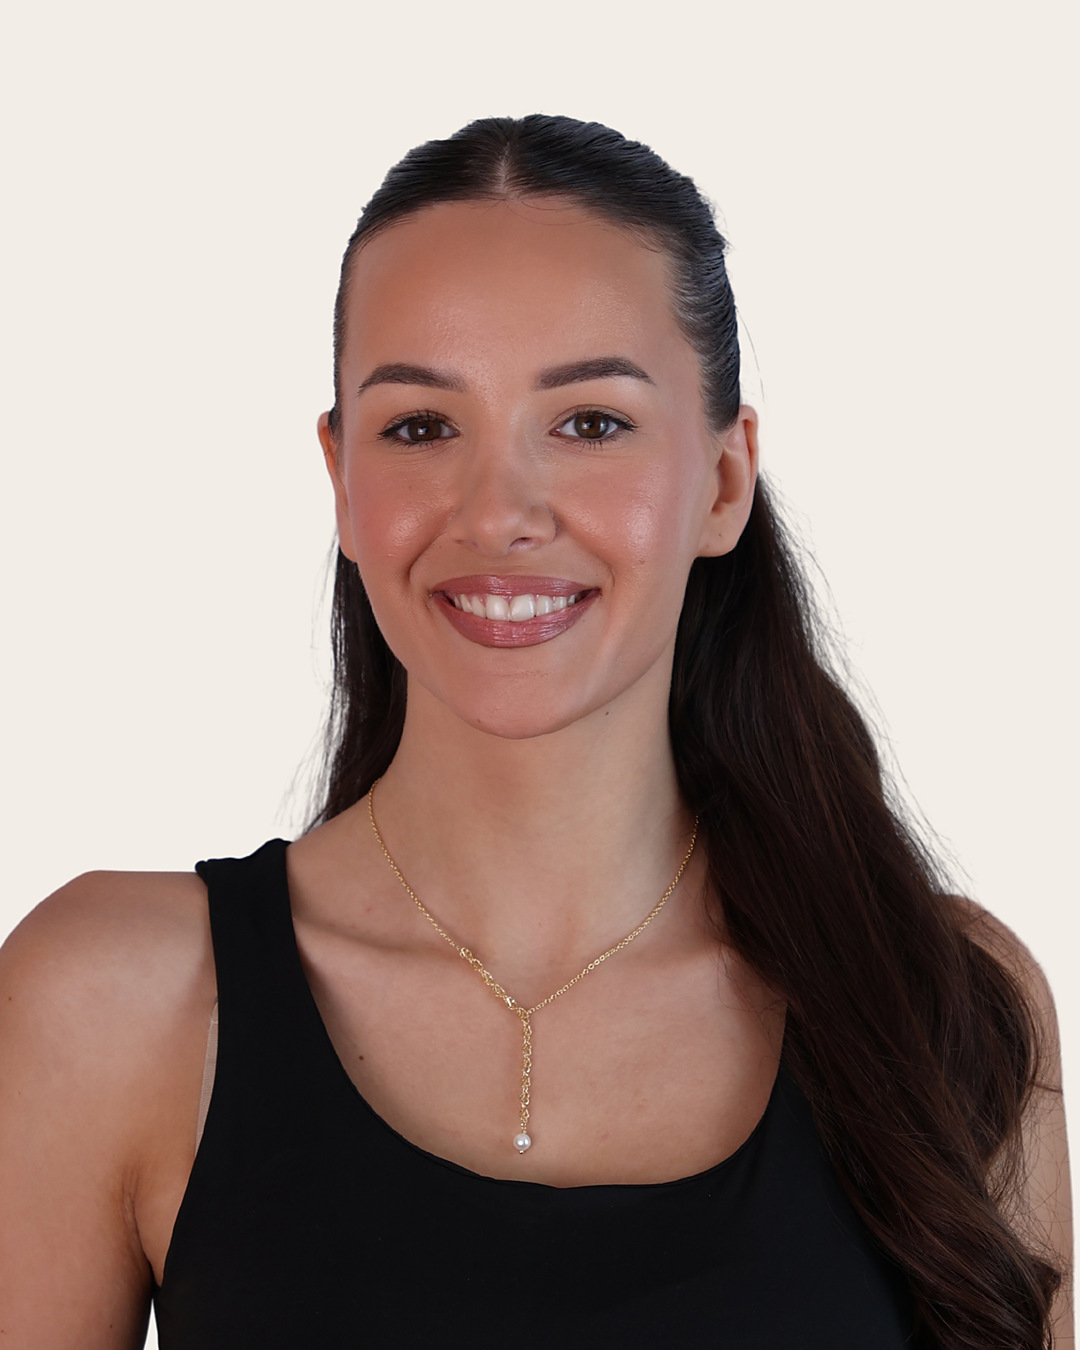
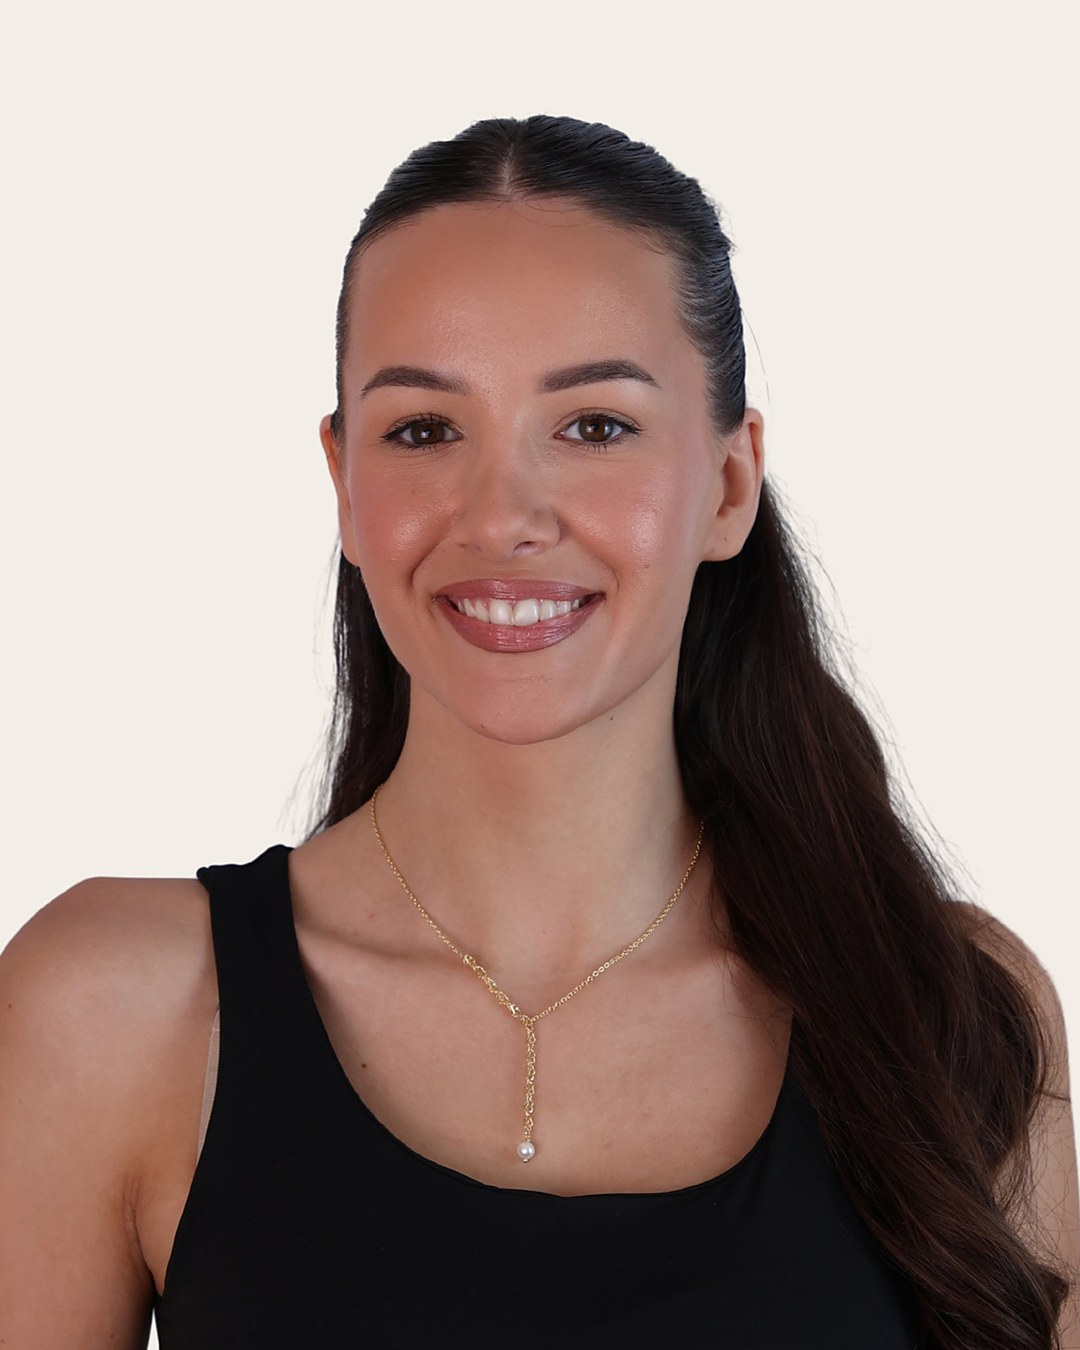
Izgled: „O meni” odmah iza naslovne, veća slika, cjenik skriven, usklađeno za sve ekrane
- „O meni” dolazi odmah nakon naslovne; slika popunjava cijelu širinu na mobitelu
  i veća je na tabletu i računalu (slika ponovno izrezana bez svijetle trake desno)
- sekcija s cjenikom skrivena (nova postavka „Cjenik na stranici”, isključena)
- kontakt: karta uz radno vrijeme, gumb „Upute do salona” ispod karte
- kalendar i iznosi bona stanu i na najuže mobitele (320 px)

Claude-Session: https://claude.ai/code/session_01Ac9kgiXt7yFycyhrKw6tHw

diff --git a/public/css/style.css b/public/css/style.css
@@ -115,14 +115,18 @@ section { padding: clamp(64px, 10vw, 112px) 0; }
 .price-row .book-link:hover { text-decoration: underline; }
 
 /* O meni */
-.about { display: grid; grid-template-columns: minmax(0, 340px) 1fr; gap: clamp(32px, 6vw, 72px); align-items: center; }
-.about .photo { aspect-ratio: 4 / 5; background: var(--cream); display: grid; place-items: center; overflow: hidden; }
+.about { display: grid; grid-template-columns: minmax(0, 5fr) minmax(0, 6fr); gap: clamp(32px, 6vw, 80px); align-items: center; }
+.about .photo { aspect-ratio: 4 / 5; width: 100%; background: var(--cream); display: grid; place-items: center; overflow: hidden; }
 .about .photo img { width: 100%; height: 100%; object-fit: cover; }
 .edu { list-style: none; padding: 0; margin: 24px 0 0; }
 .edu li { padding: 12px 0; border-top: 1px solid var(--line); display: flex; justify-content: space-between; gap: 12px; flex-wrap: wrap; }
 .edu li span:first-child { font-family: var(--serif); font-size: 19px; }
 .edu li span:last-child { font-size: 13px; color: var(--muted); }
-@media (max-width: 760px) { .about { grid-template-columns: 1fr; } .about .photo { max-width: 320px; } }
+@media (max-width: 1000px) { .about { grid-template-columns: minmax(0, 1fr) minmax(0, 1fr); } }
+@media (max-width: 760px) {
+  .about { grid-template-columns: 1fr; gap: 36px; }
+  .edu li { flex-direction: column; gap: 0; }
+}
 
 /* Radovi */
 .gallery { display: grid; grid-template-columns: repeat(auto-fill, minmax(220px, 1fr)); gap: 12px; }
@@ -139,17 +143,17 @@ section { padding: clamp(64px, 10vw, 112px) 0; }
 /* Kontakt */
 .contact-grid {
   display: grid; grid-template-columns: 1fr 1fr; column-gap: clamp(32px, 6vw, 72px);
-  grid-template-areas: "head ." "list map" "hours route";
+  grid-template-areas: "head ." "list map" "hours map" "hours route";
 }
 .contact-head { grid-area: head; }
 .contact-hours { grid-area: hours; }
 .contact-hours h3 { margin-top: 32px; }
 .contact-grid .map-wrap { grid-area: map; }
-.route-btn { grid-area: route; justify-self: start; align-self: start; margin-top: 26px; }
+.route-btn { grid-area: route; justify-self: start; align-self: start; margin-top: 20px; }
 .contact-list { grid-area: list; list-style: none; margin: 0; padding: 0; }
 .contact-list li { display: flex; gap: 16px; align-items: center; padding: 14px 0; border-bottom: 1px solid rgba(243, 237, 231, .18); }
 .contact-list img { width: 28px; height: 28px; object-fit: contain; flex: none; }
-.contact-list a { text-decoration: none; }
+.contact-list a { text-decoration: none; overflow-wrap: anywhere; }
 .contact-list a:hover { color: var(--rose-light); }
 .hours { width: 100%; border-collapse: collapse; margin-top: 8px; }
 .hours td { padding: 6px 0; border-bottom: 1px solid rgba(243, 237, 231, .18); }
@@ -198,10 +202,10 @@ footer.site-footer a { color: var(--rose-light); }
 .cal-head h3 { margin: 0; font-size: 22px; text-transform: capitalize; }
 .cal-nav { width: 44px; height: 44px; border-radius: 50%; border: 1px solid var(--line); background: none; cursor: pointer; font-size: 18px; color: var(--ink); }
 .cal-nav:disabled { opacity: .3; cursor: default; }
-.cal-grid { display: grid; grid-template-columns: repeat(7, 1fr); gap: 4px; text-align: center; }
+.cal-grid { display: grid; grid-template-columns: repeat(7, minmax(0, 1fr)); gap: 4px; text-align: center; }
 .cal-grid .dow { font-size: 11px; letter-spacing: .12em; color: var(--muted); padding: 6px 0; text-transform: uppercase; }
 .cal-day {
-  aspect-ratio: 1; min-height: 40px; border-radius: 50%; border: 1px solid transparent;
+  aspect-ratio: 1; width: 100%; min-height: 36px; padding: 0; border-radius: 50%; border: 1px solid transparent;
   background: none; font: 400 15px var(--sans); color: var(--ink); cursor: pointer;
 }
 .cal-day:disabled { color: #C3B7AE; cursor: default; text-decoration: line-through; text-decoration-color: rgba(0,0,0,.1); }
@@ -265,7 +269,8 @@ footer.site-footer a { color: var(--rose-light); }
 [hidden] { display: none !important; }
 @media (max-width: 520px) {
   .steps { gap: 6px; }
-  .steps li { flex: 1; text-align: center; font-size: 10px; letter-spacing: .1em; }
+  .steps li { flex: 1; min-width: 0; text-align: center; font-size: 10px; letter-spacing: .1em; }
+  .cal-grid .dow { letter-spacing: .04em; }
 }
 .map-wrap { display: block; position: relative; }
 .map-wrap .map { pointer-events: none; display: block; }
@@ -292,9 +297,9 @@ section[id] { scroll-margin-top: 72px; }
 @media (max-width: 560px) { .grid-2 { grid-template-columns: 1fr; } }
 .field-label { display: block; font-size: 12px; letter-spacing: .16em; text-transform: uppercase; margin-bottom: 6px; color: var(--muted); }
 .amounts { display: flex; gap: 10px; flex-wrap: wrap; }
-.amount { position: relative; cursor: pointer; }
+.amount { position: relative; cursor: pointer; flex: 1 1 72px; min-width: 0; max-width: 160px; }
 .amount input { position: absolute; opacity: 0; inset: 0; margin: 0; cursor: pointer; }
-.amount span { display: inline-block; min-width: 96px; padding: 12px 18px; border: 1px solid var(--line); text-align: center; font-family: var(--serif); font-size: 20px; background: var(--white); }
+.amount span { display: block; padding: 12px 6px; white-space: nowrap; border: 1px solid var(--line); text-align: center; font-family: var(--serif); font-size: clamp(16px, 5vw, 20px); background: var(--white); }
 .amount input:checked + span { background: var(--ink); color: var(--cream); border-color: var(--ink); }
 .amount input:focus-visible + span { outline: 2px solid var(--rose); outline-offset: 2px; }
 .form-done { text-align: center; padding: 8px 0; }
@@ -337,4 +342,11 @@ section[id] { scroll-margin-top: 72px; }
   .voucher-page { background: none; padding: 0; }
   .voucher-actions, .voucher-state { display: none; }
   .voucher { border-color: #999; outline-color: #999; }
+}
+
+/* Mali ekrani: naslovna */
+@media (max-width: 520px) {
+  .hero .label { letter-spacing: .14em; }
+  .hero .actions { flex-direction: column; align-items: center; }
+  .hero .actions .btn { width: 100%; max-width: 300px; }
 }

diff --git a/public/index.html b/public/index.html
@@ -21,8 +21,8 @@
     <div class="wrap">
       <a class="logo" href="/" aria-label="Barbara Skoko Beauty – naslovna"><img src="/assets/logo/BSB_Horizontalni_logo_tamni.svg" alt="Barbara Skoko Beauty" width="126" height="40"></a>
       <nav class="nav" aria-label="Glavni izbornik">
-        <a href="#usluge">Usluge</a>
         <a href="#o-meni">O meni</a>
+        <a href="#usluge" data-feature-link="priceList" hidden>Usluge</a>
         <a href="#radovi" data-gallery-link hidden>Radovi</a>
         <a href="#poklon-bon" data-feature-link="vouchers" hidden>Poklon bon</a>
         <a href="#svecanosti" data-feature-link="events" hidden>Svečanosti</a>
@@ -41,12 +41,27 @@
         <p class="lead">Šminka za svaku priliku i precizno oblikovanje obrva – threading, henna i classic – u opuštenom i besprijekorno čistom prostoru.</p>
         <div class="actions">
           <a class="btn" href="#rezervacija">Rezervirajte termin</a>
-          <a class="btn btn-outline" href="#usluge">Pogledajte usluge</a>
+          <a class="btn btn-outline" href="#kontakt" id="hero-second">Kontakt i lokacija</a>
+        </div>
+      </div>
+    </section>
+    <section id="o-meni" class="bg-sand">
+      <div class="wrap about">
+        <div class="photo" id="about-photo"></div>
+        <div>
+          <span class="label">O meni</span>
+          <h2>Bok, ja sam <em>Barbara.</em></h2>
+          <p>Bavim se šminkanjem i oblikovanjem obrva. Moj cilj je istaknuti vašu prirodnu ljepotu – da iz svakog termina izađete samopouzdanije.</p>
+          <ul class="edu">
+            <li><span>Petra Braćić</span><span>Edukacija šminkanja</span></li>
+            <li><span>Mary Bošnjak</span><span>Edukacija šminkanja</span></li>
+            <li><span>Threading Bar</span><span>Edukacija oblikovanja obrva</span></li>
+          </ul>
         </div>
       </div>
     </section>
 
-    <section id="usluge" class="bg-cream">
+    <section id="usluge" data-alt hidden>
       <div class="wrap">
         <div class="section-head">
           <span class="label">Usluge</span>
@@ -113,23 +128,7 @@
       </div>
     </section>
 
-    <section id="o-meni" class="bg-sand">
-      <div class="wrap about">
-        <div class="photo" id="about-photo"></div>
-        <div>
-          <span class="label">O meni</span>
-          <h2>Bok, ja sam <em>Barbara.</em></h2>
-          <p>Bavim se šminkanjem i oblikovanjem obrva. Moj cilj je istaknuti vašu prirodnu ljepotu – da iz svakog termina izađete samopouzdanije.</p>
-          <ul class="edu">
-            <li><span>Petra Braćić</span><span>Edukacija šminkanja</span></li>
-            <li><span>Mary Bošnjak</span><span>Edukacija šminkanja</span></li>
-            <li><span>Threading Bar</span><span>Edukacija oblikovanja obrva</span></li>
-          </ul>
-        </div>
-      </div>
-    </section>
-
-    <section id="radovi" hidden>
+    <section id="radovi" data-alt hidden>
       <div class="wrap">
         <div class="section-head">
           <span class="label">Radovi</span>

diff --git a/public/admin/admin.js b/public/admin/admin.js
@@ -855,6 +855,7 @@ const FEATURES = [
   { k: 'rebook', t: 'Podsjetnik za novi termin', d: 'Nekoliko tjedana nakon obrva klijentica dobije email „Vrijeme je za nove obrve?” s linkom za rezervaciju.' },
   { k: 'reviews', t: 'Recenzije na stranici', d: 'Nakon termina klijentice ocijene uslugu, a ocjene koje odobrite prikazuju se na stranici.' },
   { k: 'vouchers', t: 'Poklon bonovi', d: 'Bon se naruči na stranici, kupac ga dobije emailom za ispis, a vi ga u salonu iskoristite po kodu.' },
+  { k: 'priceList', t: 'Cjenik na stranici', d: 'Posebna sekcija s cjenikom ispod „O meni”. Cijene se vide i u koraku rezervacije, pa je sekcija zasad skrivena.' },
   { k: 'events', t: 'Vjenčanja i svečanosti', d: 'Obrazac za upit na stranici (vjenčanje, krizma, matura); kaparu tražite i potvrđujete jednim dodirom.' },
 ];
 const CAT_LABEL = { BROWS: 'Obrve', FACE: 'Lice', MAKEUP: 'Šminka' };
@@ -1215,7 +1216,7 @@ async function viewSettings(v) {
 }
 
 // Zadana fotografija za „O meni” (dok Barbara ne doda svoju)
-const ABOUT_DEFAULT = '/assets/photos/barbara-o-meni.jpg';
+const ABOUT_DEFAULT = '/assets/photos/barbara-o-meni.jpg?v=2';
 
 // Smanji fotografiju u pregledniku (najviše 1600 px) prije slanja
 function shrinkImage(file) {

diff --git a/public/js/booking.js b/public/js/booking.js
@@ -376,7 +376,7 @@ function renderContact() {
 }
 
 // Zadana fotografija za „O meni”; postavlja se tek kad se zna je li Barbara dodala svoju (da se ne učitaju obje)
-const ABOUT_DEFAULT = '/assets/photos/barbara-o-meni.jpg';
+const ABOUT_DEFAULT = '/assets/photos/barbara-o-meni.jpg?v=2';
 function showAboutPhoto(src) {
   $('#about-photo').innerHTML = `<img src="${esc(src)}" alt="Barbara Skoko" width="1080" height="1350">`;
 }
@@ -529,6 +529,11 @@ function renderEvents() {
   }
   const datum = params.get('datum');
   renderPriceList();
+  if (state.config.features?.priceList) {
+    $('#usluge').hidden = false;
+    $('[data-feature-link="priceList"]').hidden = false;
+    Object.assign($('#hero-second'), { href: '#usluge', textContent: 'Pogledajte usluge' });
+  }
   renderServices();
   renderContact();
   renderGallery();

diff --git a/server/defaults.js b/server/defaults.js
@@ -51,6 +51,7 @@ export const DEFAULT_SETTINGS = {
     events: false, // upiti za vjenčanja i svečanosti
     vouchers: false, // poklon bonovi
     reviews: false, // recenzije na stranici
+    priceList: false, // posebna sekcija s cjenikom (cijene se vide i u rezervaciji)
   },
   extras: {
     holidays: null, // null = svi s popisa (server/holidays.js)

diff --git a/server/index.js b/server/index.js
@@ -99,6 +99,7 @@ app.get('/api/config', wrap(async (req, res) => {
       events: settings.features.events,
       vouchers: settings.features.vouchers,
       reviews: settings.features.reviews,
+      priceList: settings.features.priceList,
     },
     eventKinds: settings.features.events ? EVENT_KINDS : undefined,
     vouchers: settings.features.vouchers
